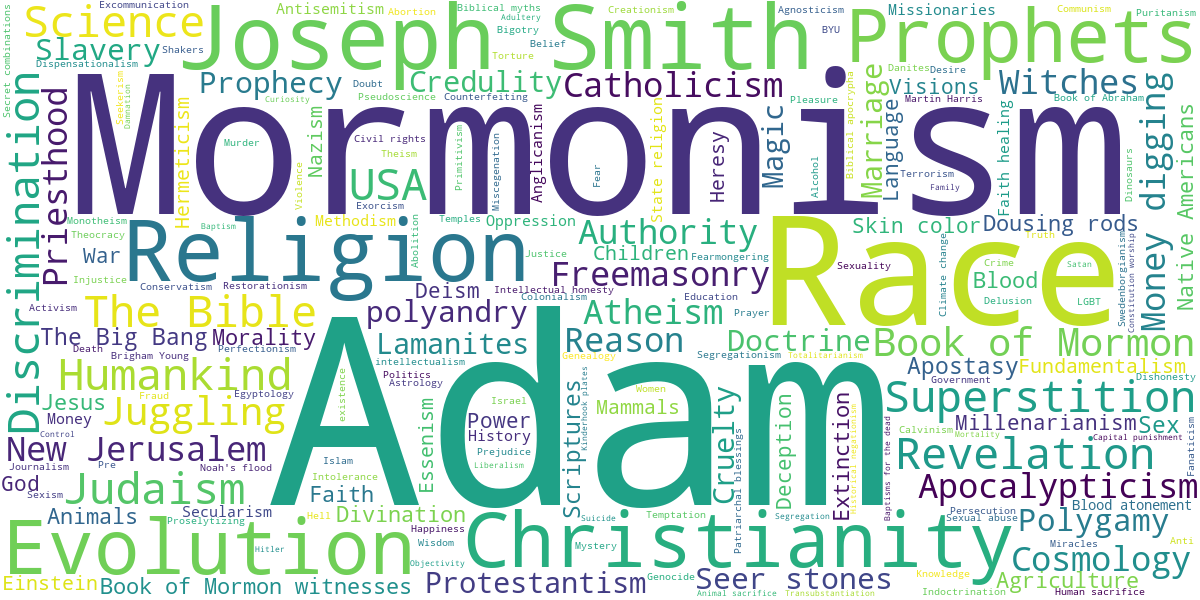
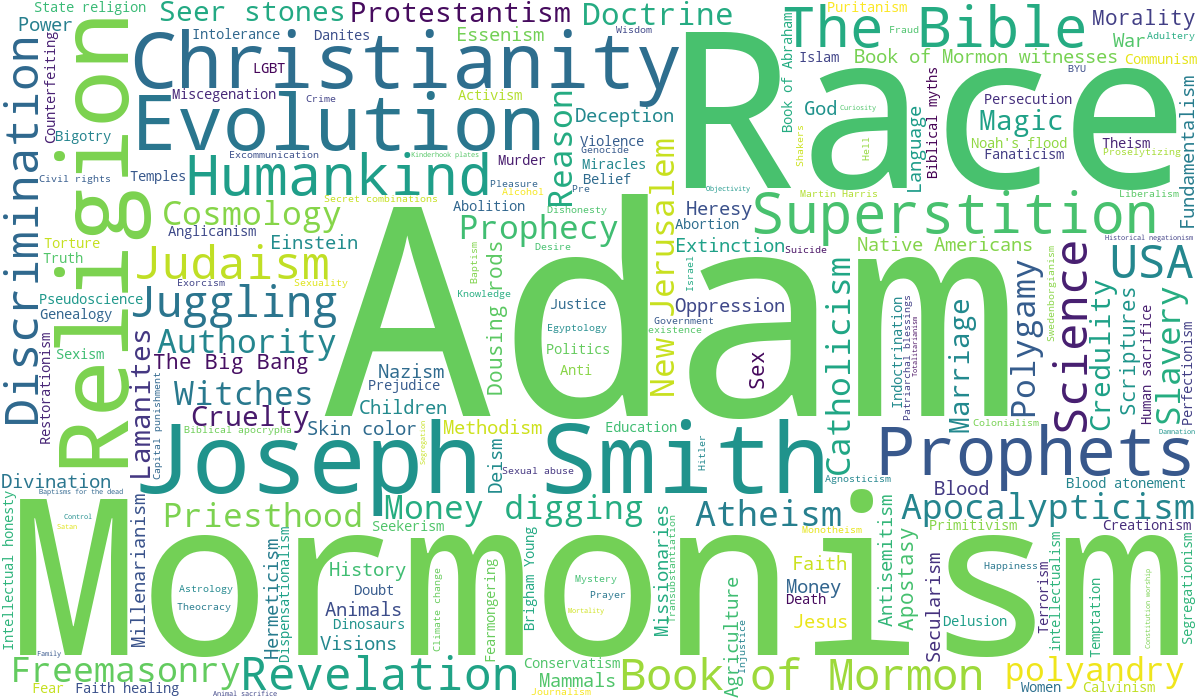
updates

diff --git a/templates/home/index.html b/templates/home/index.html
@@ -14,7 +14,7 @@
 {% block content %}
     <div class="container" style="position: relative; height: 100%; display: flex; align-items: center;
                                   justify-content: center; background-image: url('{% static "topic_cloud.png" %}');
-                                  background-repeat: no-repeat; background-position: center; background-size: cover;">
+                                  background-repeat: no-repeat; background-position: center; background-size: contain;">
         <div class="card p-2">
             <div class="card-body">
                 {% crispy search_form %}
